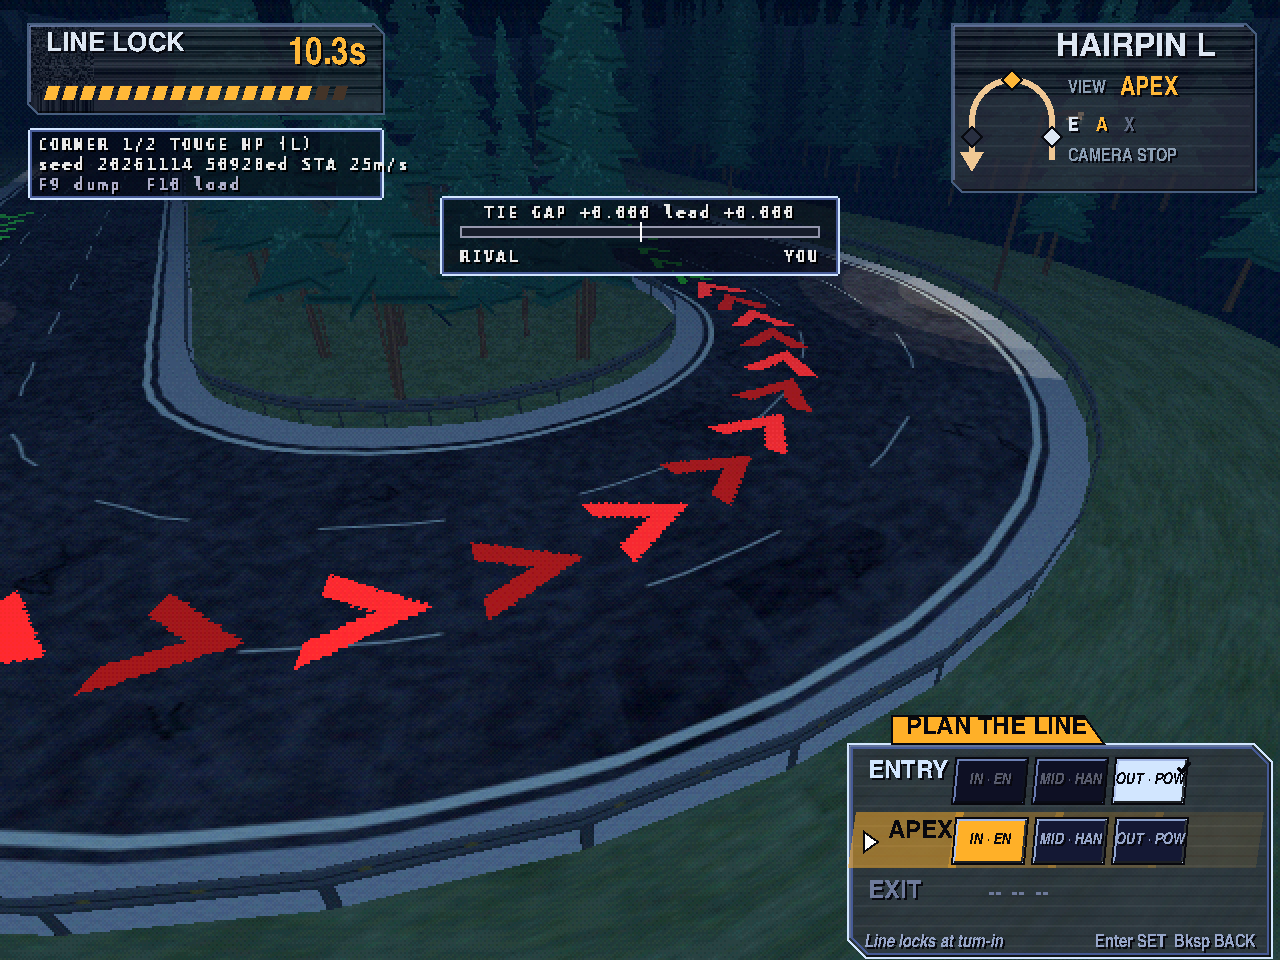
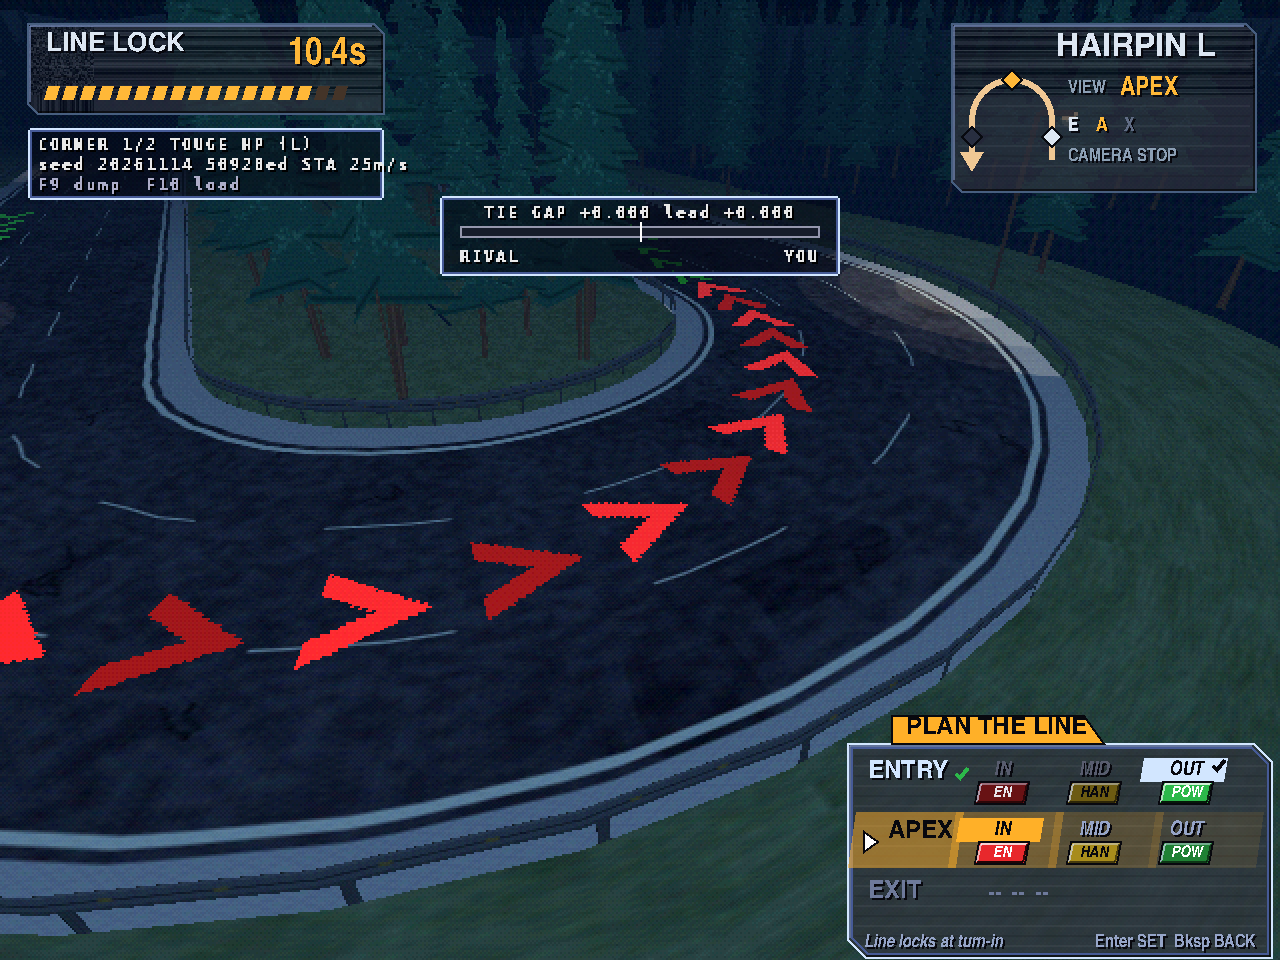
Gordon [godot]: PLAN THE LINE stat framed under OUT/MID/IN; entry_strip no longer calls lane_stat (UNAPPROVED)

diff --git a/CHANGELOG.md b/CHANGELOG.md
@@ -8,6 +8,14 @@
 
 ---
 
+## 2026-11-12 — Gordon [godot]: PLAN THE LINE stat framed under OUT/MID/IN; entry_strip no longer calls lane_stat (UNAPPROVED)
+
+- **Why:** Austin follow-up (relayed by Arthur, 769f073): "The stat should be framed under the position text." Arthur also reported that his `run.sh` symlinks our `entry_strip.gd`, which failed to parse because it called `lane_stat()` — a helper that exists only on our `hud_panel.gd`, not his.
+- **What (`unapproved/gordon/two-corner/`):** PLAN THE LINE chips now match Arthur 769f073: unframed OUT / MID / IN over a small framed stance-coloured POW / HAN / EN box (`stat_box`); the selected highlight sits behind the position text only; the lock tick sits to the right of the position letters. `entry_strip.gd` inlines the `OUT · POW` labels instead of calling `HudPanel.lane_stat`, so Arthur's symlink parses against his `hud_panel.gd`. No Arthur files were edited. Colours unchanged (POW `#2CB84A`, EN `#E8282C`, HAN `#F0C828`). Build id `272ae5508b`.
+- **Tests:** Quick local check (Austin, 2026-11-12): Godot headless parse/run plus one parity seed (`seed20261113_idx`) 0.0 vs pin 50928ed. Full parity, fuzz and key test left to CI. Token prefix `TC3:50928ed:272ae5508b:`.
+- **Shots:** `out/shots15/` — Entry / Apex / Exit selection at 1280×960 (hover on each stance, seed 20261114), Exit QTE, RESULT, and `compare_arthur_vs_gordon.png` against Arthur's 769f073 / fb38d45 frames.
+- **Left as is / differed from the mockup:** Hinting is off (B.5c / the brief); Arthur's mockup script used `HINTING_NORMAL`. Archivo Black is loaded as `hud.fa` the way Arthur's `hud.gd` does, but paint currently uses Nimbus Sans Bold for heavy titles, same as his `_font()`. The tie-gap bar and debug box still use the 9-slice `box()` path, matching Arthur's code (no `plate_finish` there). The known Entry-chase crest gap for follow-on chevrons is unchanged. Cameras and gameplay unchanged. The debug seed box is kept.
+
 ## 2026-11-12 — Arthur [art]: stat is framed under the OUT/MID/IN position text
 
 - **Why:** Austin follow-up, 2026-11-12: "Not quite what I wanted. The stat should be framed under the position text."

diff --git a/unapproved/gordon/two-corner/README.md b/unapproved/gordon/two-corner/README.md
@@ -140,7 +140,7 @@ Austin approved Arthur's line-preview mockup (relayed by Arthur, commit **9a8382
 
 ## HUD look (2026-11-12, display only, parity unchanged)
 
-Austin (12:55 PM PT): "I like his HUD look." Plate grain, bevel and heavier titles are ported from Arthur's line-preview `hud_panel.gd` (`plate_finish`) and fonts. Grain is drawn only on HUD plates, on the 1280×960 HUD layer after the 640×480 dither pass — never on the 3D or the road. Fonts: Nimbus Sans Narrow Bold / Bold Oblique, Nimbus Sans Bold (URW++ base35, AGPL-3 with Font exception), and Archivo Black (SIL OFL 1.1); licenses sit next to the files in `godot/fonts/`. Text is pixel-hard (no AA, hinting off, nearest). Colours unchanged. Every PLAN THE LINE row uses corner-relative `OUT · POW` / `MID · HAN` / `IN · EN` chips (Austin via Arthur, 9ba4c70). Debug box keeps the 6x9 bitmap so F9/F10 and the seed stay readable. Cameras and gameplay unchanged. Shots: `out/shots15/`.
+Austin (12:55 PM PT): "I like his HUD look." Plate grain, bevel and heavier titles are ported from Arthur's line-preview `hud_panel.gd` (`plate_finish`) and fonts. Grain is drawn only on HUD plates, on the 1280×960 HUD layer after the 640×480 dither pass — never on the 3D or the road. Fonts: Nimbus Sans Narrow Bold / Bold Oblique, Nimbus Sans Bold (URW++ base35, AGPL-3 with Font exception), and Archivo Black (SIL OFL 1.1); licenses sit next to the files in `godot/fonts/`. Text is pixel-hard (no AA, hinting off, nearest). Colours unchanged. Every PLAN THE LINE row uses unframed OUT / MID / IN over a small framed POW / HAN / EN stat box (Austin via Arthur, 769f073). `entry_strip.gd` inlines those labels so Arthur's `run.sh` can symlink it onto his `hud_panel.gd`. Debug box keeps the 6x9 bitmap so F9/F10 and the seed stay readable. Cameras and gameplay unchanged. Shots: `out/shots15/`.
 
 
 ## shots9 (display/flow only, scoring/RNG/pin unchanged): Austin's playtest, 2026-11-11 ~9:58-10:22 PM PT

diff --git a/unapproved/gordon/two-corner/out/shots15/README.md b/unapproved/gordon/two-corner/out/shots15/README.md
@@ -1,8 +1,8 @@
-# shots15 — HUD plate grain, bevel, heavier type, and framed lane chips
+# shots15 — HUD plate grain, bevel, heavier type, and stat-under-position chips
 
-Austin (12:55 PM PT, 2026-11-12): "I like his HUD look." Later the same day: every row uses IN/MID/OUT + stat, and "The chips should be framed." Grain/bevel/fonts and `frame_lane_chip` are ported from Arthur's `hud_panel.gd` / `plan_panel.gd`. UI is drawn pixel-hard on the 1280×960 HUD layer, after the 640×480 dither pass. Grain is only on HUD plates, never on the 3D or the road.
+Austin (12:55 PM PT, 2026-11-12): "I like his HUD look." Later the same day: every row uses IN/MID/OUT + stat, then "The stat should be framed under the position text" (Arthur 769f073). Grain/bevel/fonts are ported from Arthur's `hud_panel.gd` / `plan_panel.gd`. UI is drawn pixel-hard on the 1280×960 HUD layer, after the 640×480 dither pass. Grain is only on HUD plates, never on the 3D or the road.
 
-- `entry_*_1280.png`, `apex_*_1280.png`, `exit_*_1280.png` — selection, hover on each stance, seed 20261114. Chips read `OUT · POW` / `MID · HAN` / `IN · EN`.
+- `entry_*_1280.png`, `apex_*_1280.png`, `exit_*_1280.png` — selection, hover on each stance, seed 20261114. Unframed OUT / MID / IN over a small framed POW / HAN / EN stat box.
 - `exit_qte_1280.png` — Exit QTE during playback.
 - `result_1280.png` — RESULT after the first corner (QTEs unplayed in this harness).
-- `compare_arthur_vs_gordon.png` — Arthur c838466 left, this build right. His chips are stacked (lane over stat); this build keeps the combined single-line wording inside the same plate-style frame.
+- `compare_arthur_vs_gordon.png` — Arthur 769f073 / fb38d45 left, this build right, at half scale (nearest).
